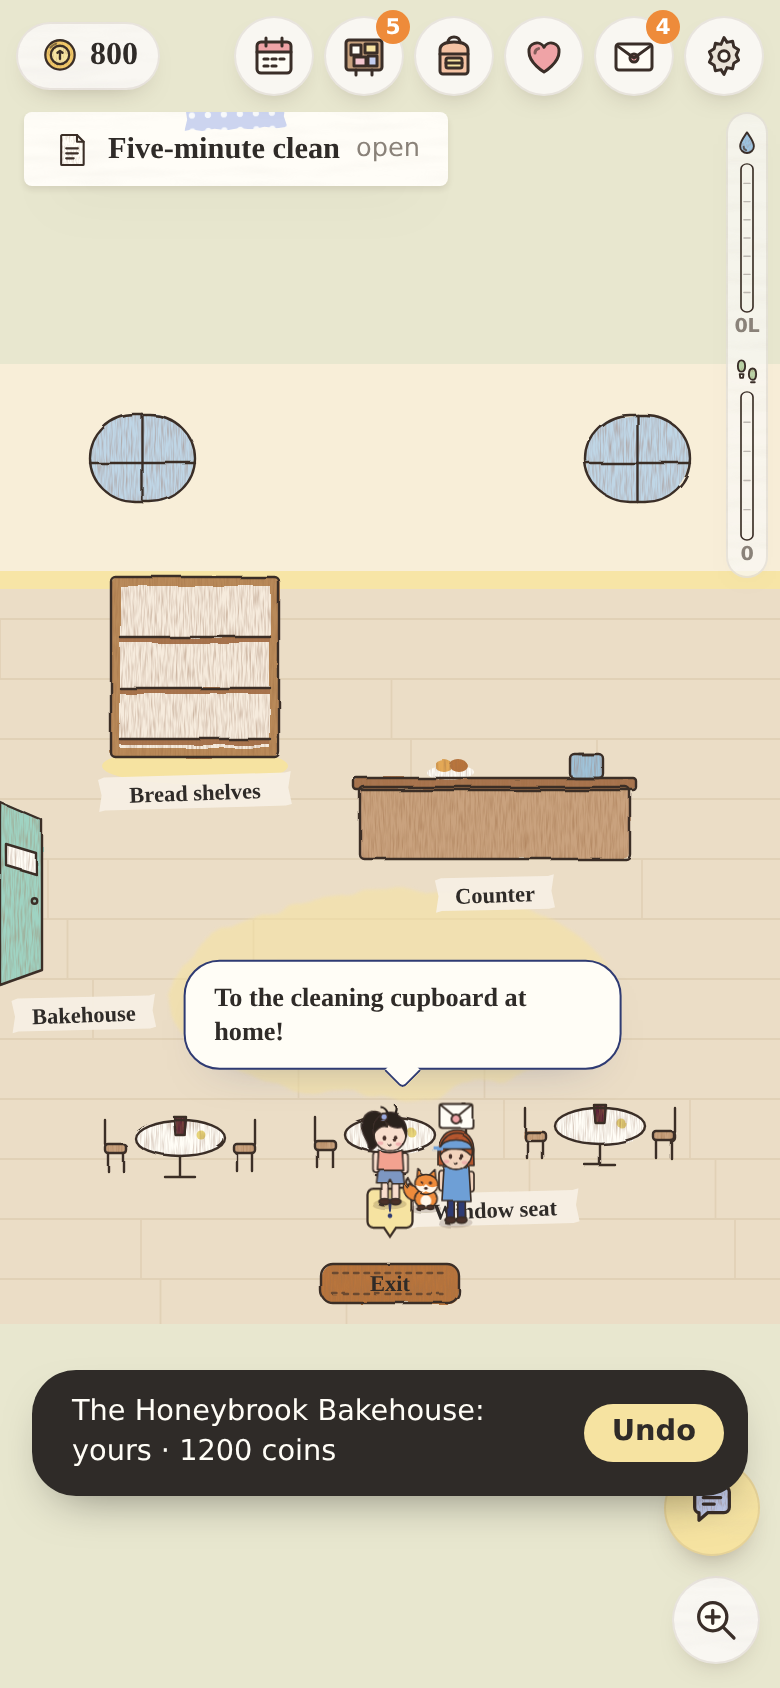
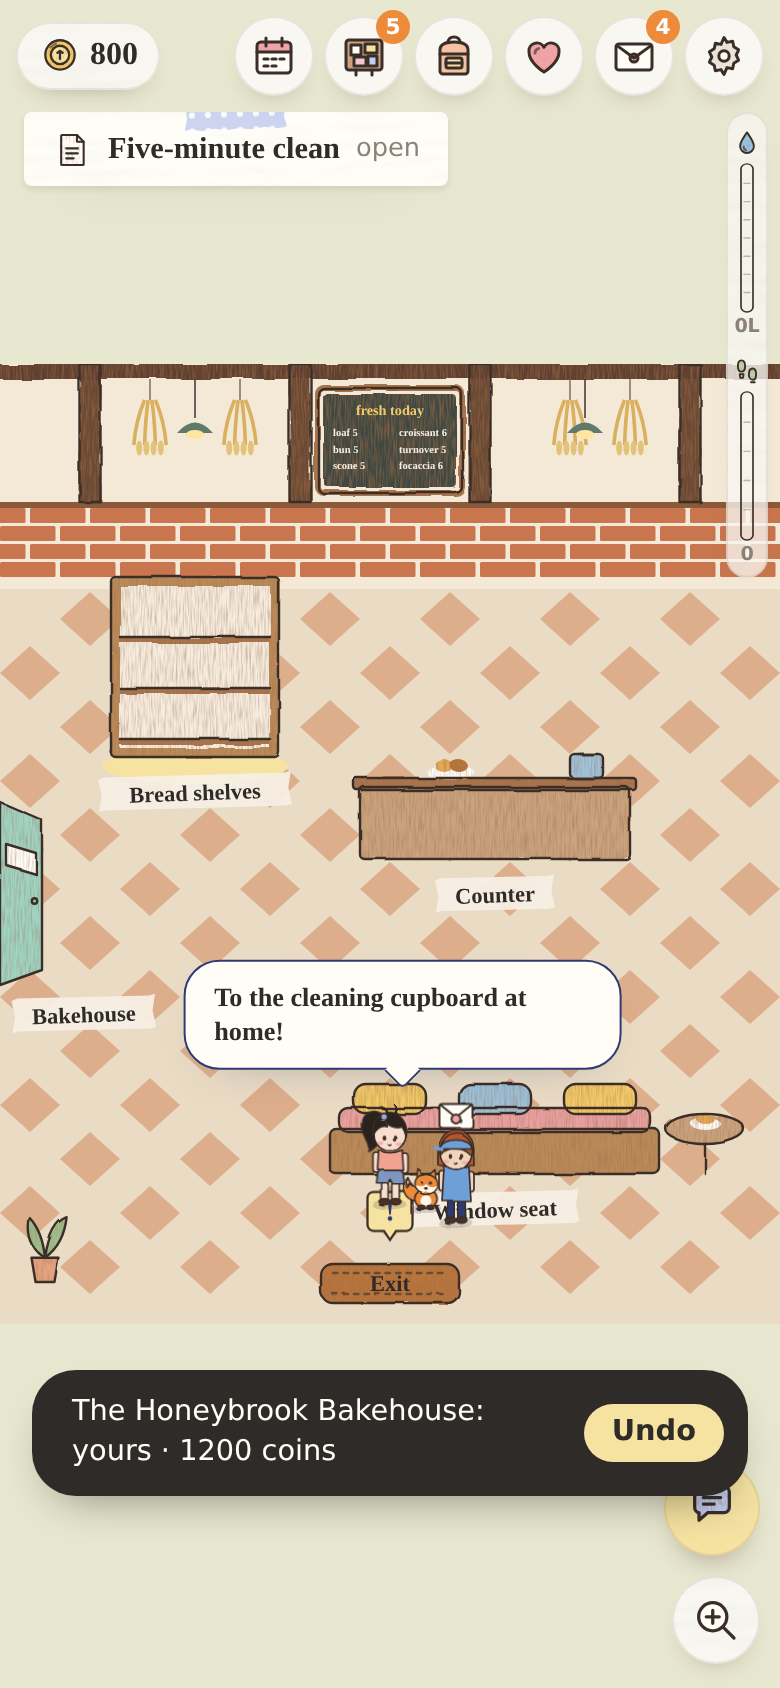
The bakery's own interiors: tiled shop with beams and wheat, flagstone bakehouse with jars and copper pans
Claude-Session: https://claude.ai/code/session_017gYbhpw6TbdTF5ufLgYzyp

diff --git a/maple-village/src/art/interiors.js b/maple-village/src/art/interiors.js
@@ -217,6 +217,31 @@ const SHELLS = {
     ${sk(`<rect x="0" y="20" width="520" height="10" style="fill:#7A4A32"/><rect x="226" y="40" width="68" height="60" style="fill:#F6E6B8"/>`, `<path d="M0 20 H520 M0 30 H520"/><rect x="226" y="40" width="68" height="60"/><path d="M260 40 v60 M226 70 h68"/>`)}
     ${[90, 430].map(x => sk(`<path d="M${x} 30 v14"/><rect x="${x-7}" y="44" width="14" height="18" rx="3" style="fill:#F3C969"/>`, `<path d="M${x} 30 v14"/><rect x="${x-7}" y="44" width="14" height="18" rx="3"/>`)).join("")}`,
   // the chocolate kitchen: white tiles, a window, copper pans on a rail
+  // round 294 (Mel: "Interior of bakery look too similar to ice cream shop and winery"): the Honeybrook Bakehouse.
+  // The shop: terracotta and cream diamond tiles, red brick to dado height under cream plaster, dark oak beams with
+  // bunches of wheat hanging from them, pendant lamps, and a chalkboard of today's prices
+  bakery: () => `<rect width="520" height="640" style="fill:#EADBC4"/>
+    <g opacity=".75">${rows(13, r => rows(14, c => (r + c) % 2 ? `<path d="M${c*40} ${170 + r*36} l20 -18 l20 18 l-20 18z" style="fill:#D9A07A"/>` : ""))}</g>
+    <rect width="520" height="150" style="fill:#F4E9D6"/>
+    <g style="fill:#C9754E">${rows(4, r => rows(14, c => `<rect x="${c*40 + (r % 2)*20 - 20}" y="${96 + r*12}" width="37" height="10" rx="1"/>`))}</g><rect y="92" width="520" height="4" style="fill:#8A5A3A"/>
+    ${sk(`${[60, 200, 320, 460].map(x => `<rect x="${x - 7}" y="0" width="14" height="92" style="fill:#6B4A36"/>`).join("")}<rect x="0" y="0" width="520" height="10" style="fill:#5E4030"/>`, `${[60, 200, 320, 460].map(x => `<rect x="${x - 7}" y="0" width="14" height="92"/>`).join("")}`)}
+    <g pointer-events="none">${[[100, 10], [160, 10], [380, 10], [420, 10]].map(([x, y]) => `<path d="M${x} ${y} v14" style="stroke:#8A6A4E" stroke-width="1"/><g transform="translate(${x} ${y + 14})">${[-6, -2, 2, 6].map(d => `<path d="M${d*.6} 0 q${d} 14 ${d*1.2} 30" fill="none" style="stroke:#D9B060" stroke-width="2.4"/><ellipse cx="${d*1.2}" cy="32" rx="2" ry="5" style="fill:#E3C27A"/>`).join("")}</g>`).join("")}
+      ${[130, 390].map(x => `<path d="M${x} 10 v26" style="stroke:#3B3530" stroke-width="1"/><path d="M${x - 12} 46 q12 -14 24 0z" style="fill:#5E7A6A"/><ellipse class="wglow" cx="${x}" cy="47" rx="6" ry="3" style="fill:#FFE6A0"/>`).join("")}</g>
+    ${sk(`<rect x="216" y="20" width="88" height="62" rx="3" style="fill:#3E4A43"/><rect x="212" y="16" width="96" height="70" rx="4" fill="none" style="stroke:#A8754F" stroke-width="4"/>`, `<rect x="212" y="16" width="96" height="70" rx="4"/>`)}
+    <g font-family="Klee One,serif" font-weight="600" pointer-events="none"><text x="260" y="34" text-anchor="middle" font-size="9.5" fill="#F3C969">fresh today</text>
+      ${[["loaf", 5], ["croissant", 6], ["bun", 5], ["turnover", 5], ["scone", 5], ["focaccia", 6]].map(([n, p], i) => `<text x="${222 + (i % 2)*44}" y="${48 + Math.floor(i/2)*11}" font-size="7" fill="#F6EFE3">${n} ${p}</text>`).join("")}</g>
+    ${plant(30, 612, .9)}`,
+  // the bakehouse: worn flagstones dusted with flour, whitewashed brick, a long shelf of flour and sugar jars, copper
+  // pans, the bread peel on its hook and a big kitchen clock
+  bakehouse: () => `<rect width="520" height="640" style="fill:#D9D0C2"/>
+    <g opacity=".7" style="stroke:#BDB3A4" stroke-width="1.4" fill="none">${rows(9, r => rows(6, c => `<rect x="${c*90 + (r % 2)*45 - 45}" y="${150 + r*56}" width="86" height="52" rx="8"/>`))}</g>
+    <g filter="url(#wash)" opacity=".45">${[[180, 470, 90, 40], [400, 300, 60, 24], [90, 360, 50, 22]].map(([x, y, rx, ry]) => `<ellipse cx="${x}" cy="${y}" rx="${rx}" ry="${ry}" style="fill:#FFFDF6"/>`).join("")}</g>
+    <rect width="520" height="150" style="fill:#F2EEE6"/><g opacity=".5" style="fill:#E3DCCF">${rows(11, r => rows(14, c => `<rect x="${c*40 + (r % 2)*20 - 20}" y="${r*13}" width="37" height="11" rx="1"/>`))}</g><rect y="138" width="520" height="12" style="fill:#8A5A3A" opacity=".9"/>${skirting}
+    ${sk(`<rect x="150" y="70" width="190" height="7" rx="1" style="fill:#A8754F"/>${[0, 1, 2, 3, 4].map(i => `<rect x="${160 + i*36}" y="${46}" width="22" height="24" rx="4" style="fill:#EAF2F5" opacity=".9"/><rect x="${162 + i*36}" y="${56}" width="18" height="12" rx="2" style="fill:${["#F4EEE3", "#FFFDF6", "#C98A4A", "#E3C27A", "#F4EEE3"][i]}"/>`).join("")}`,
+      `<rect x="150" y="70" width="190" height="7" rx="1"/>${[0, 1, 2, 3, 4].map(i => `<rect x="${160 + i*36}" y="46" width="22" height="24" rx="4"/>`).join("")}`)}
+    ${sk(`<circle cx="390" cy="56" r="20" style="fill:#FFFDF6"/><path d="M390 56 v-12 M390 56 h9" style="stroke:var(--line)" stroke-width="1.6"/>${[0, 1, 2].map(i => `<circle cx="${436 + i*24}" cy="${60 + (i % 2)*6}" r="${11 - i}" style="fill:#C8763E"/>`).join("")}`,
+      `<circle cx="390" cy="56" r="20"/>${[0, 1, 2].map(i => `<circle cx="${436 + i*24}" cy="${60 + (i % 2)*6}" r="${11 - i}"/><path d="M${436 + i*24} ${49 + (i % 2)*6} v-10" />`).join("")}`)}
+    ${sk(`<rect x="70" y="20" width="10" height="80" rx="3" style="fill:#B98A5A"/><ellipse cx="75" cy="106" rx="24" ry="12" style="fill:#C9A27E"/>`, `<rect x="70" y="20" width="10" height="80" rx="3"/><ellipse cx="75" cy="106" rx="24" ry="12"/>`)}`,
   cocoakitchen: () => `<rect width="520" height="640" style="fill:#F2EBE2"/>
     <g opacity=".5">${rows(12, r => rows(13, c => (r + c) % 2 ? `<rect x="${c*40}" y="${150 + r*42}" width="40" height="42" style="fill:#E6D9C8"/>` : ""))}</g>
     ${wallBase("#F6EEE4", "#8A5A3A")}<g opacity=".35" style="stroke:#D8C8B4">${rows(13, i => `<path d="M${i*40} 0 V138"/>`)}${rows(4, i => `<path d="M0 ${i*36 + 18} H520"/>`)}</g>${skirting}

diff --git a/maple-village/src/art/scenes.js b/maple-village/src/art/scenes.js
@@ -504,6 +504,8 @@ export function furn(kind, x, y){
     case "bkoven": { const b = G.bakery ? G.bakery() : {}, on = !!b.oven;
       return sk(`<path d="M${x-70} ${y} V${y-60} Q${x} ${y-140} ${x+70} ${y-60} V${y}z" style="fill:#C9754E"/><path d="M${x-30} ${y} V${y-36} Q${x} ${y-66} ${x+30} ${y-36} V${y}z" style="fill:#3B3530"/>${on ? `<ellipse class="glow" cx="${x}" cy="${y-14}" rx="24" ry="9" style="fill:#F2A65A" opacity=".75"/>` : ""}<rect x="${x-12}" y="${y-138}" width="24" height="30" style="fill:#BDB3A4"/>`,
         `<path d="M${x-70} ${y} V${y-60} Q${x} ${y-140} ${x+70} ${y-60} V${y}z"/><path d="M${x-30} ${y} V${y-36} Q${x} ${y-66} ${x+30} ${y-36} V${y}z"/><path d="M${x-60} ${y-40} h20 M${x+40} ${y-40} h20 M${x-50} ${y-80} h14 M${x+36} ${y-80} h14" opacity=".4"/>`); }
+    case "bkbench": return sk(`<rect x="${x-110}" y="${y-30}" width="220" height="30" rx="4" style="fill:#B98A5A"/><rect x="${x-104}" y="${y-44}" width="208" height="16" rx="6" style="fill:#E8A0A0"/>${[-70, 0, 70].map(d => `<rect x="${x + d - 24}" y="${y-60}" width="48" height="20" rx="8" style="fill:${d ? "#F3C969" : "#9FC3D9"}"/>`).join("")}<ellipse cx="${x+140}" cy="${y-30}" rx="26" ry="10" style="fill:#C9A27E"/><ellipse cx="${x+140}" cy="${y-34}" rx="10" ry="4" style="fill:#FFFDF6"/><ellipse cx="${x+140}" cy="${y-37}" rx="6" ry="3" style="fill:#E3A857"/>`,
+      `<rect x="${x-110}" y="${y-30}" width="220" height="30" rx="4"/><rect x="${x-104}" y="${y-44}" width="208" height="16" rx="6"/>${[-70, 0, 70].map(d => `<rect x="${x + d - 24}" y="${y-60}" width="48" height="20" rx="8"/>`).join("")}<ellipse cx="${x+140}" cy="${y-30}" rx="26" ry="10"/><path d="M${x+140} ${y-20} v20"/>`);
     case "bkmix": return sk(`<rect x="${x-80}" y="${y-34}" width="160" height="34" rx="3" style="fill:#E3C59F"/><ellipse cx="${x-30}" cy="${y-38}" rx="22" ry="8" style="fill:#FFFDF6"/><ellipse cx="${x-30}" cy="${y-40}" rx="16" ry="5" style="fill:#F3E2C0"/><rect x="${x+14}" y="${y-48}" width="40" height="8" rx="4" style="fill:#B98A5A"/><path d="M${x-70} ${y-30} q20 -6 40 0" fill="none" style="stroke:#FFFDF6" stroke-width="3" opacity=".7"/>`,
       `<rect x="${x-80}" y="${y-34}" width="160" height="34" rx="3"/><ellipse cx="${x-30}" cy="${y-38}" rx="22" ry="8"/><rect x="${x+14}" y="${y-48}" width="40" height="8" rx="4"/><path d="M${x-74} ${y} v10 M${x+74} ${y} v10"/>`);
     case "bkproof": { const b = G.bakery ? G.bakery() : {proof: []}, n = (b.proof || []).length;

diff --git a/maple-village/src/data/world.js b/maple-village/src/data/world.js
@@ -469,7 +469,7 @@ export const ROOMS = {
     ["bshelves","Bread shelves","S","bkshelves",null,"The bread shelves.",40],
     ["bcounter","Counter","C","bkcounter",null,"The counter and the honesty tin.",46],
     ["bkdoor","Bakehouse","Z","gkdoor",null,"Through to the bakehouse.",0],
-    ["bseat","Window seat","T","cafetables",null,"A seat in the window.",34]]},
+    ["bseat","Window seat","T","bkbench",null,"A seat in the window.",34]]},
   bakehouse: {name:"The bakehouse", wall:"#F3E7D7", trim:"#8A5A3A", noBoard:true, pos:{O:[260,262], P:[96,262], R:[420,262], M:[250,450], C:[380,590], F:[110,590]}, stations:[
     ["bmix","Mixing table","M","bkmix",null,"The mixing table, flour on everything.",40],
     ["bproof","Proving shelf","P","bkproof",null,"Trays of dough rising under cloths.",34],

diff --git a/maple-village/HANDOFF.md b/maple-village/HANDOFF.md
@@ -2868,3 +2868,4 @@ Mel: villagers' story chapters read as broken-up speech without context; thank-y
 - Rooms (world.js ROOMS): `bakery` (bread shelves `bshelves`, counter `bcounter`, door `bkdoor`, window seat `bseat`) and `bakehouse` through the west door (INNER: mixing table `bmix`, proving shelf `bproof`, wood oven `boven`, cooling rack `brack`, butter churn `bchurn`, flour sacks `bflour`). Furniture in scenes.js (`bkshelves` shows the stock, `bkproof` the trays, `bkoven` glows while baking, `bkrack` the cooling trays).
 - game/bakery.js: six recipes (`RECIPES`: farmhouse loaf, butter croissants, cinnamon buns, apple turnovers, cheese scones, sage focaccia; ingredients from the farm, orchard, Hana's deli, the mill and the priory garden; "cheese" and "herb" take any cheese / sage or rosemary). `mix` (onto the proving shelf, 3 slots), `bake` (after an hour's proving; one tray in the oven, 30 min), `bakeryTick` (the oven empties onto the rack on its own; customers 7am to 5pm, most 7 to 11 and at weekends, twice as often with Mel at the counter and paying her, else into the honesty tin), `carry` (rack to shelves, 6 a tray), `churn` (2 milk, 1 butter, a new item), `buyFlour` (3), `takeOne` (bk_<recipe> items, gifts for the family), `collectTin`, `bakeryPanel`. State F.bakery. core.js: `BAKE_IN`, `bkView`, `bakeryNow` (every 20 s), `data-bk`.
 - Tests: block "The Honeybrook Bakehouse (round 294)". Screens: screens-bottom-row/bk-open.png, bk-shop.png, bk-house.png.
+- Round 294b (Mel: "Interior of bakery look too similar to ice cream shop and winery"): the rooms had fallen back to the default shell. art/interiors.js SHELLS.bakery (terracotta and cream diamond tiles, red brick dado under cream plaster, dark oak beams with hanging wheat and two pendant lamps, a chalkboard of today's prices) and SHELLS.bakehouse (flour-dusted flagstones, whitewashed brick, a shelf of flour and sugar jars, a kitchen clock, copper pans, the bread peel). The window seat is its own cushioned bench (`bkbench`, scenes.js) instead of the café tables.
